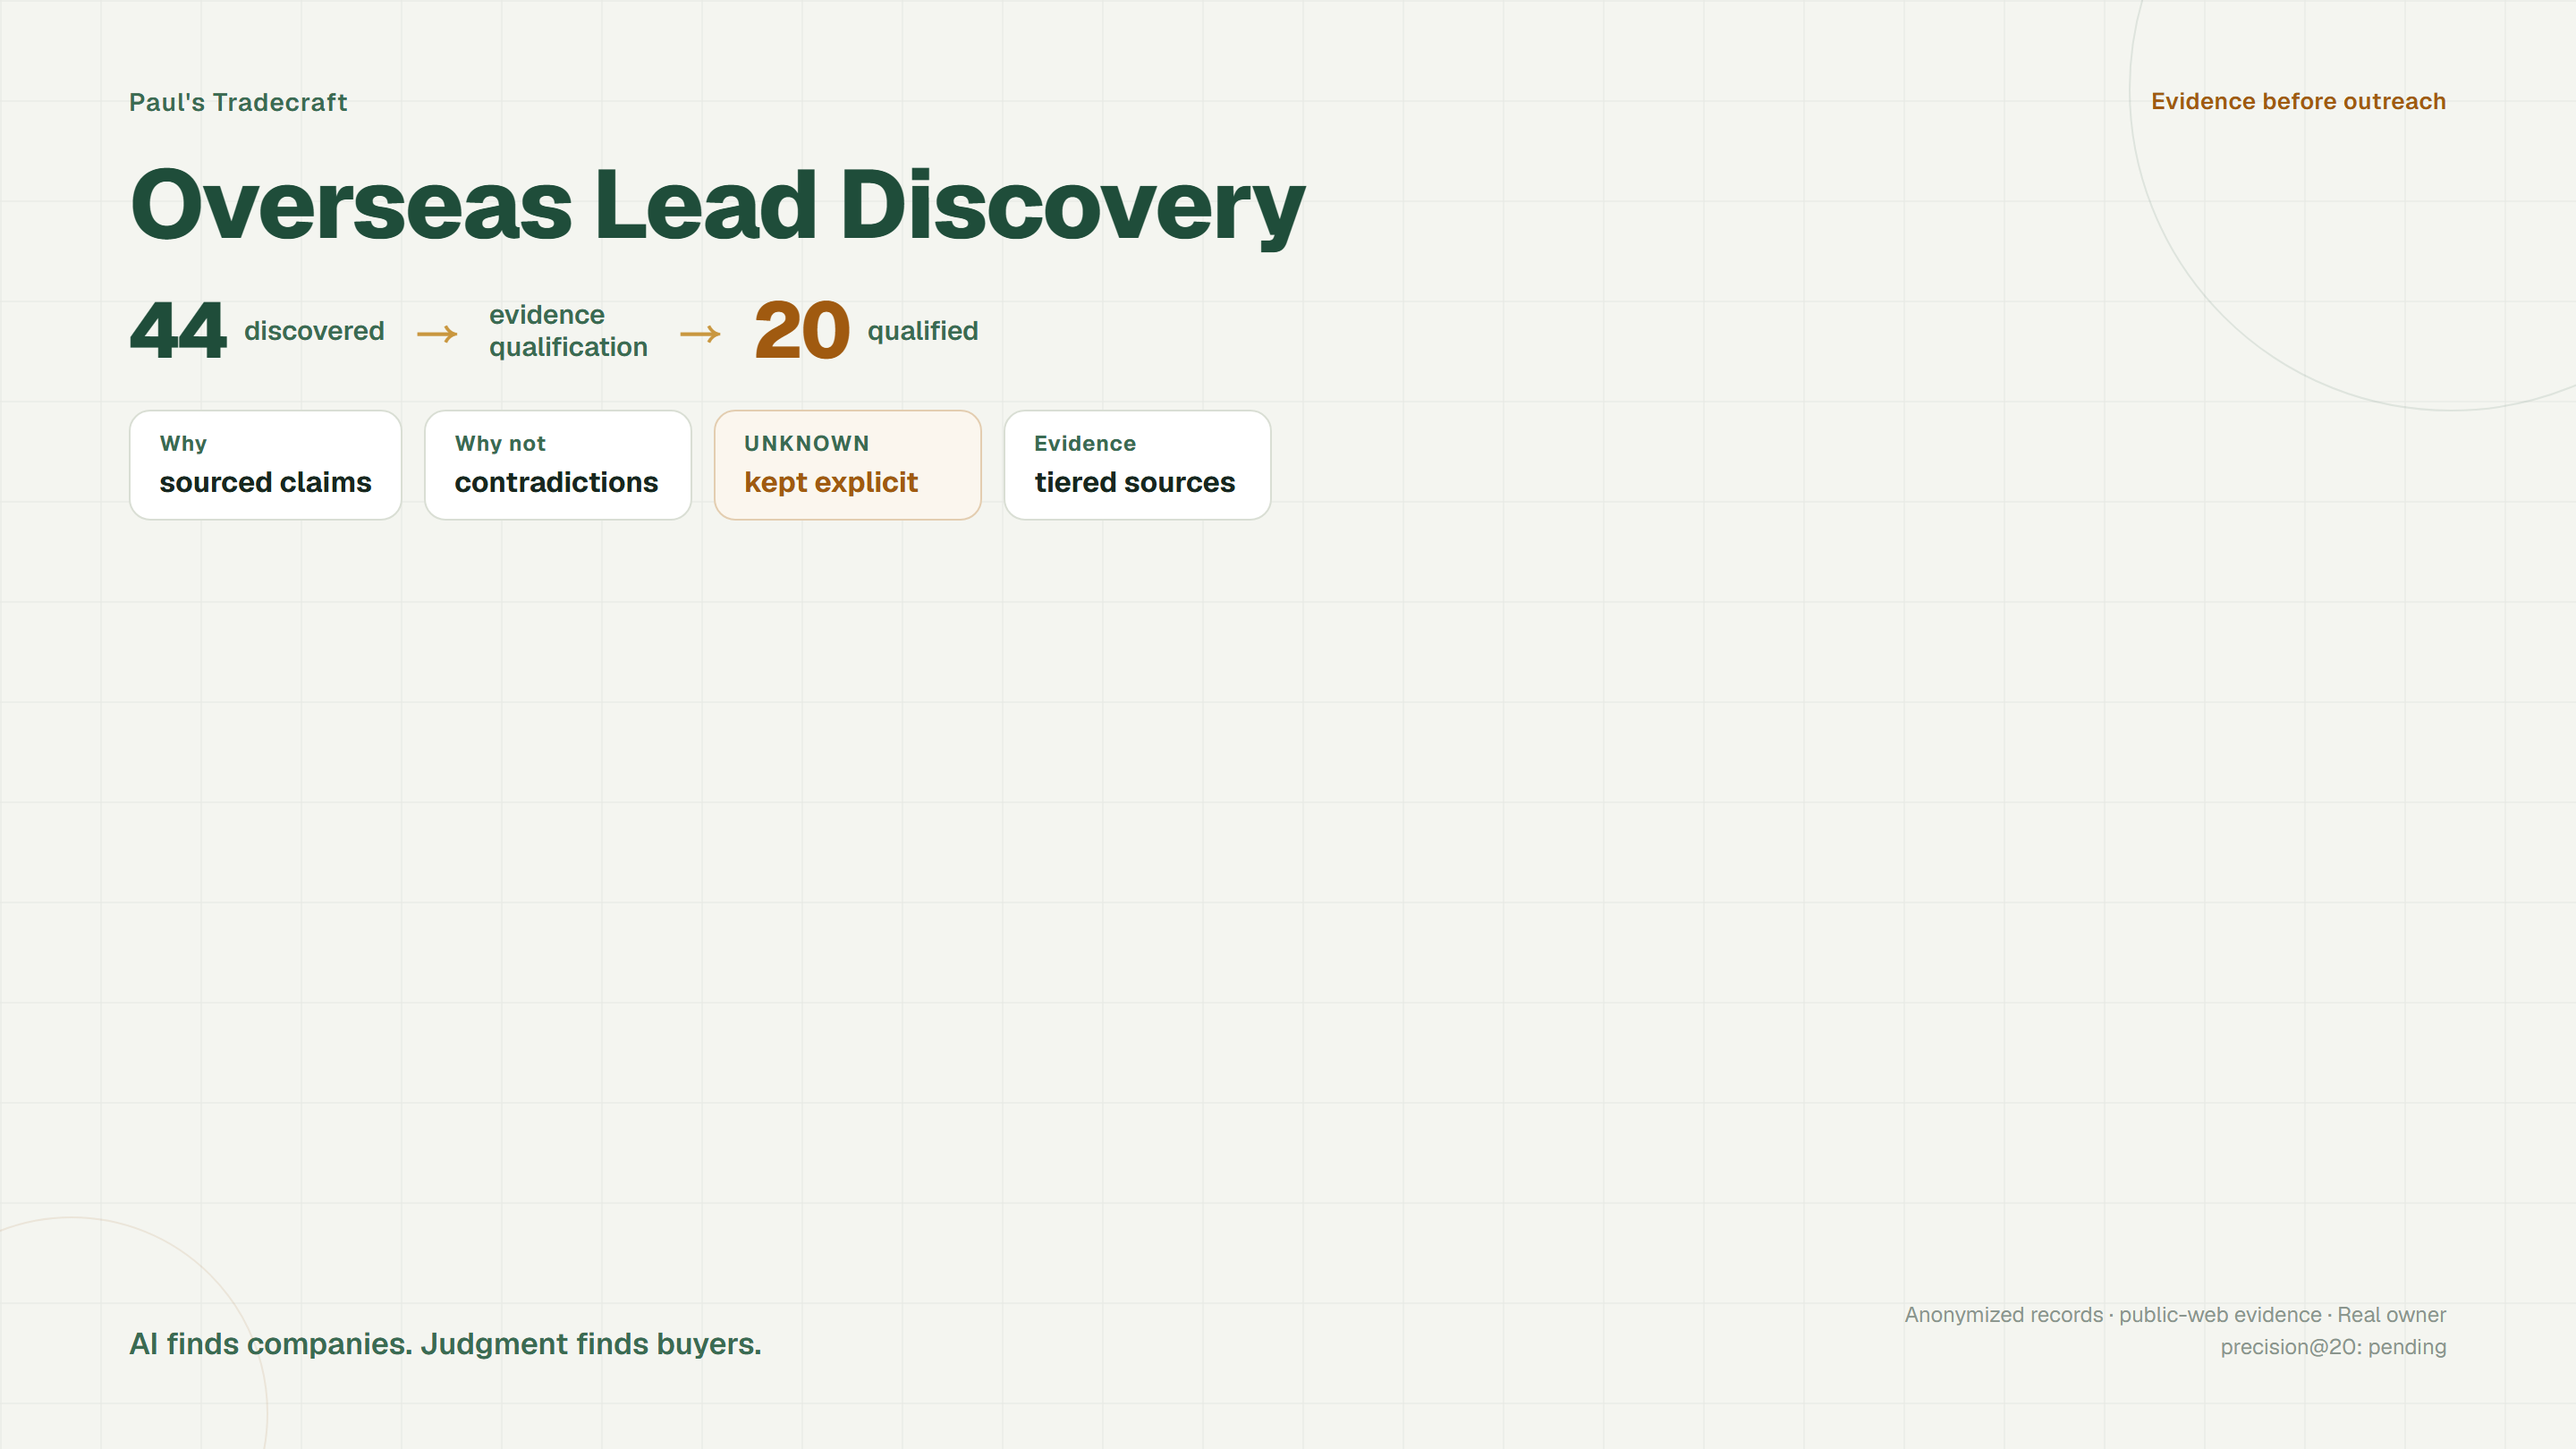
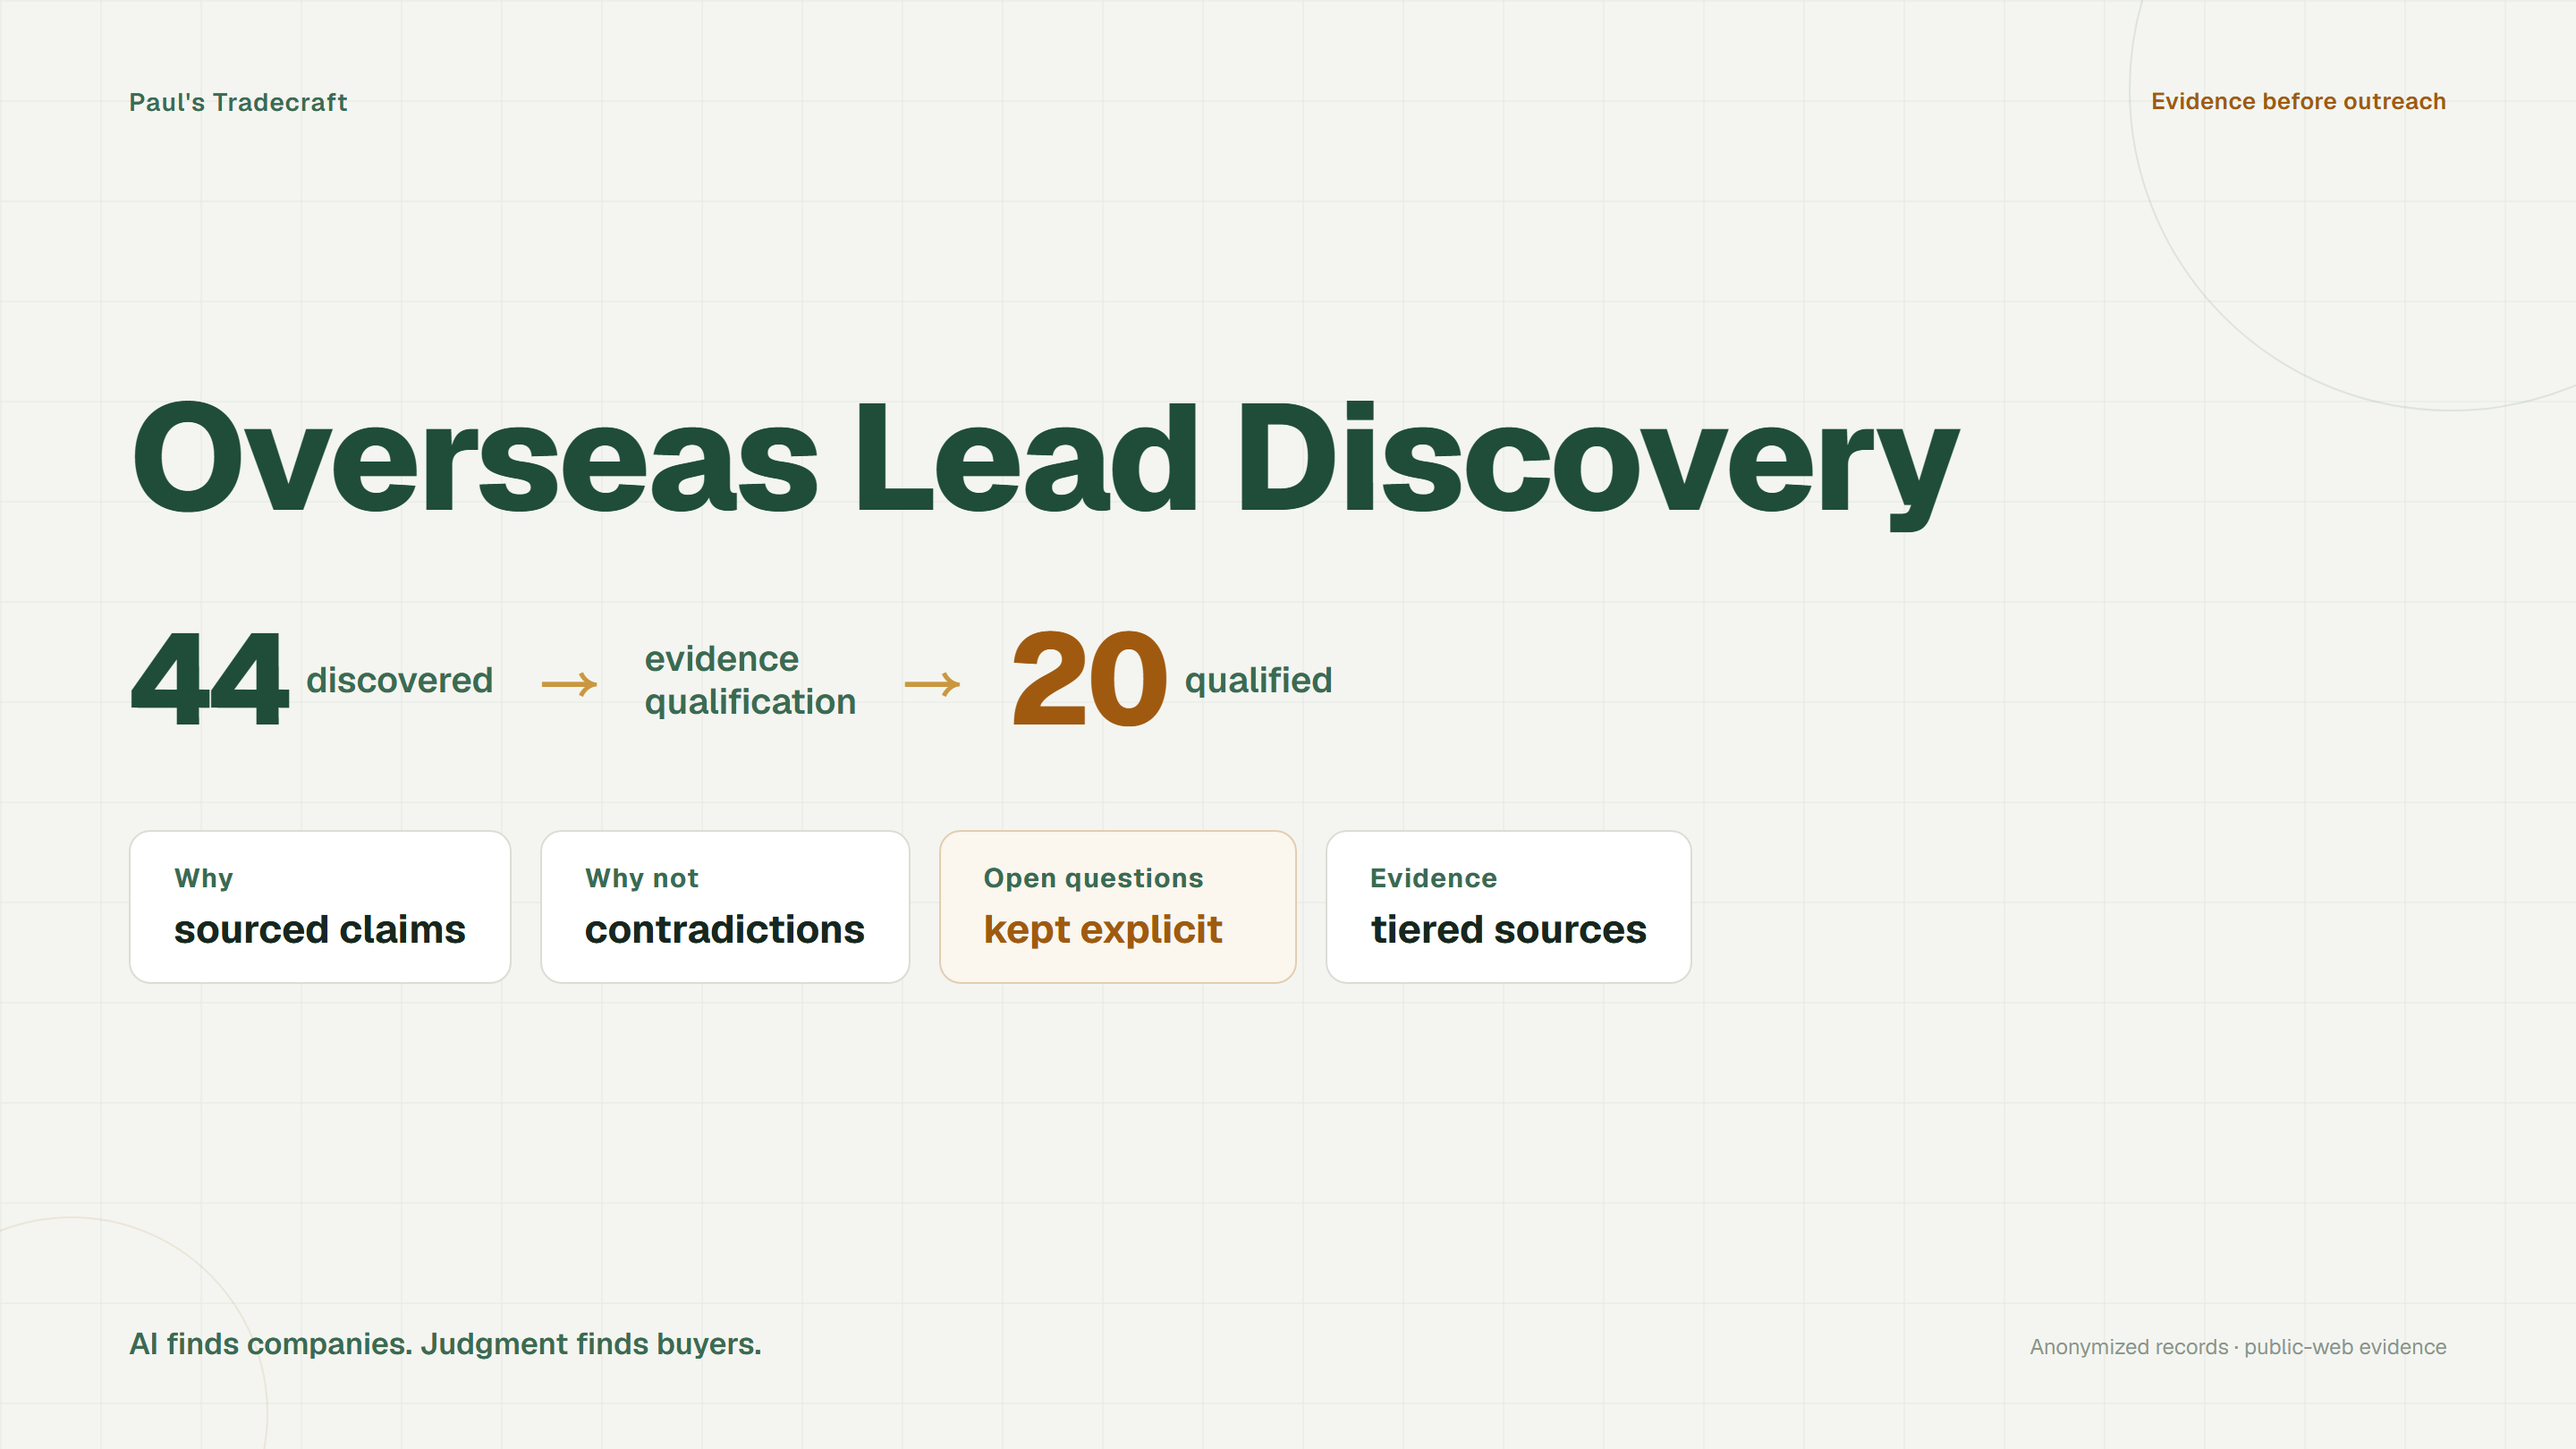
fix(cover): rebalance the Lead Discovery cover; plain wording; zh caseSummary says 先暫緩 instead of HOLD (#46)

diff --git a/cover-lead-discovery.html b/cover-lead-discovery.html
@@ -47,31 +47,30 @@
   .brand { font-size: 14px; font-weight: 600; letter-spacing: 0.04em; color: var(--moss); }
   .kicker { font-size: 13px; font-weight: 600; letter-spacing: 0.02em; color: var(--amber); }
 
-  .main { position: relative; margin-top: 20px; }
+  .main { position: relative; flex: 1; display: flex; flex-direction: column; justify-content: center; padding-bottom: 20px; }
   .title {
-    font-size: 54px; font-weight: 800; letter-spacing: -0.02em; line-height: 1.05;
-    color: var(--forest); max-width: 900px;
+    font-size: 84px; font-weight: 800; letter-spacing: -0.02em; line-height: 1.05;
+    color: var(--forest); max-width: 1100px;
   }
   .flow {
-    display: flex; align-items: center; gap: 16px; margin-top: 20px; flex-wrap: nowrap;
+    display: flex; align-items: center; gap: 24px; margin-top: 44px; flex-wrap: nowrap;
   }
   .flow .step { display: flex; align-items: center; gap: 10px; }
   .flow .num {
-    font-size: 44px; font-weight: 800; line-height: 1; letter-spacing: -0.03em;
+    font-size: 72px; font-weight: 800; line-height: 1; letter-spacing: -0.03em;
     color: var(--forest); font-variant-numeric: tabular-nums;
   }
   .flow .num.gold { color: var(--amber); }
-  .flow .lbl { font-size: 15px; font-weight: 600; color: var(--moss); max-width: 120px; line-height: 1.2; }
-  .flow .arrow { font-size: 26px; color: var(--gold); font-weight: 700; }
+  .flow .lbl { font-size: 20px; font-weight: 600; color: var(--moss); max-width: 160px; line-height: 1.2; }
+  .flow .arrow { font-size: 36px; color: var(--gold); font-weight: 700; }
 
-  .chips { display: flex; gap: 12px; margin-top: 22px; flex-wrap: nowrap; }
+  .chips { display: flex; gap: 16px; margin-top: 48px; flex-wrap: nowrap; }
   .chip {
     border: 1px solid var(--line); border-radius: 12px; background: #fff;
-    padding: 10px 16px; min-width: 150px;
+    padding: 16px 24px; min-width: 200px;
   }
-  .chip .k { font-size: 12px; font-weight: 700; letter-spacing: 0.04em; color: var(--moss); }
-  .chip.amber .k { text-transform: uppercase; letter-spacing: 0.08em; }
-  .chip .v { font-size: 16px; font-weight: 700; margin-top: 3px; color: var(--ink); }
+  .chip .k { font-size: 15px; font-weight: 700; letter-spacing: 0.04em; color: var(--moss); }
+    .chip .v { font-size: 22px; font-weight: 700; margin-top: 5px; color: var(--ink); }
   .chip.amber { border-color: #e3cdb0; background: #fbf6ee; }
   .chip.amber .v { color: var(--amber); }
 
@@ -113,14 +112,14 @@
       <div class="chips">
         <div class="chip"><div class="k">Why</div><div class="v">sourced claims</div></div>
         <div class="chip"><div class="k">Why not</div><div class="v">contradictions</div></div>
-        <div class="chip amber"><div class="k">UNKNOWN</div><div class="v">kept explicit</div></div>
+        <div class="chip amber"><div class="k">Open questions</div><div class="v">kept explicit</div></div>
         <div class="chip"><div class="k">Evidence</div><div class="v">tiered sources</div></div>
       </div>
     </div>
 
     <div class="bottom">
       <span class="tagline">AI finds companies. Judgment finds buyers.</span>
-      <span class="disclaimer">Anonymized records · public-web evidence · Real owner precision@20: pending</span>
+      <span class="disclaimer">Anonymized records · public-web evidence</span>
     </div>
   </div>
 </body>

diff --git a/src/data/works.js b/src/data/works.js
@@ -872,7 +872,7 @@ export const works = [
       title: "海外商業開發",
       desc: "找到海外相關公司只是開始；從供應商現實與市場問題出發，主動找出可能接得上的買方，再用老闆目標與證據判斷哪裡值得投入商業資源。",
       tag: "海外商業開發 · 商業判斷 · 合成互動示範",
-      caseSummary: "同一組候選與證據，會因老闆的目標不同而改變優先路徑；主動尋找不等於直接承諾，沒有採購路徑證據的高知名度帳戶，仍應維持 HOLD。",
+      caseSummary: "同一組候選與證據，會因老闆的目標不同而改變優先路徑；主動尋找不等於直接承諾，沒有採購路徑證據的高知名度帳戶，先暫緩。",
     },
     en: {
       title: "Global Business Development",

diff --git a/scripts/build_capability_brief.py b/scripts/build_capability_brief.py
@@ -454,7 +454,7 @@ def case_panel(x, y_top, w, h, num, title, body, status, accent, bg):
 
 case_panel(MARGIN, PAGE_H - 143, CONTENT_W, 174, '01',
            'Global Business Development · 海外商業開發',
-           '合成互動示範：同一組候選與證據，會因 Owner 目標不同而改變優先研究路徑；沒有採購路徑證據的高知名度帳戶維持 HOLD。供應商現實、產品切入、UNKNOWN 與內部資源關卡保持可檢視。',
+           '合成互動示範：同一組候選與證據，會因 Owner 目標不同而改變優先研究路徑；沒有採購路徑證據的高知名度帳戶先暫緩。供應商現實、產品切入、UNKNOWN 與內部資源關卡保持可檢視。',
            'synthetic demonstrator; human / market validation not performed', GOLD, PALE_GOLD)
 
 half_gap = 13
